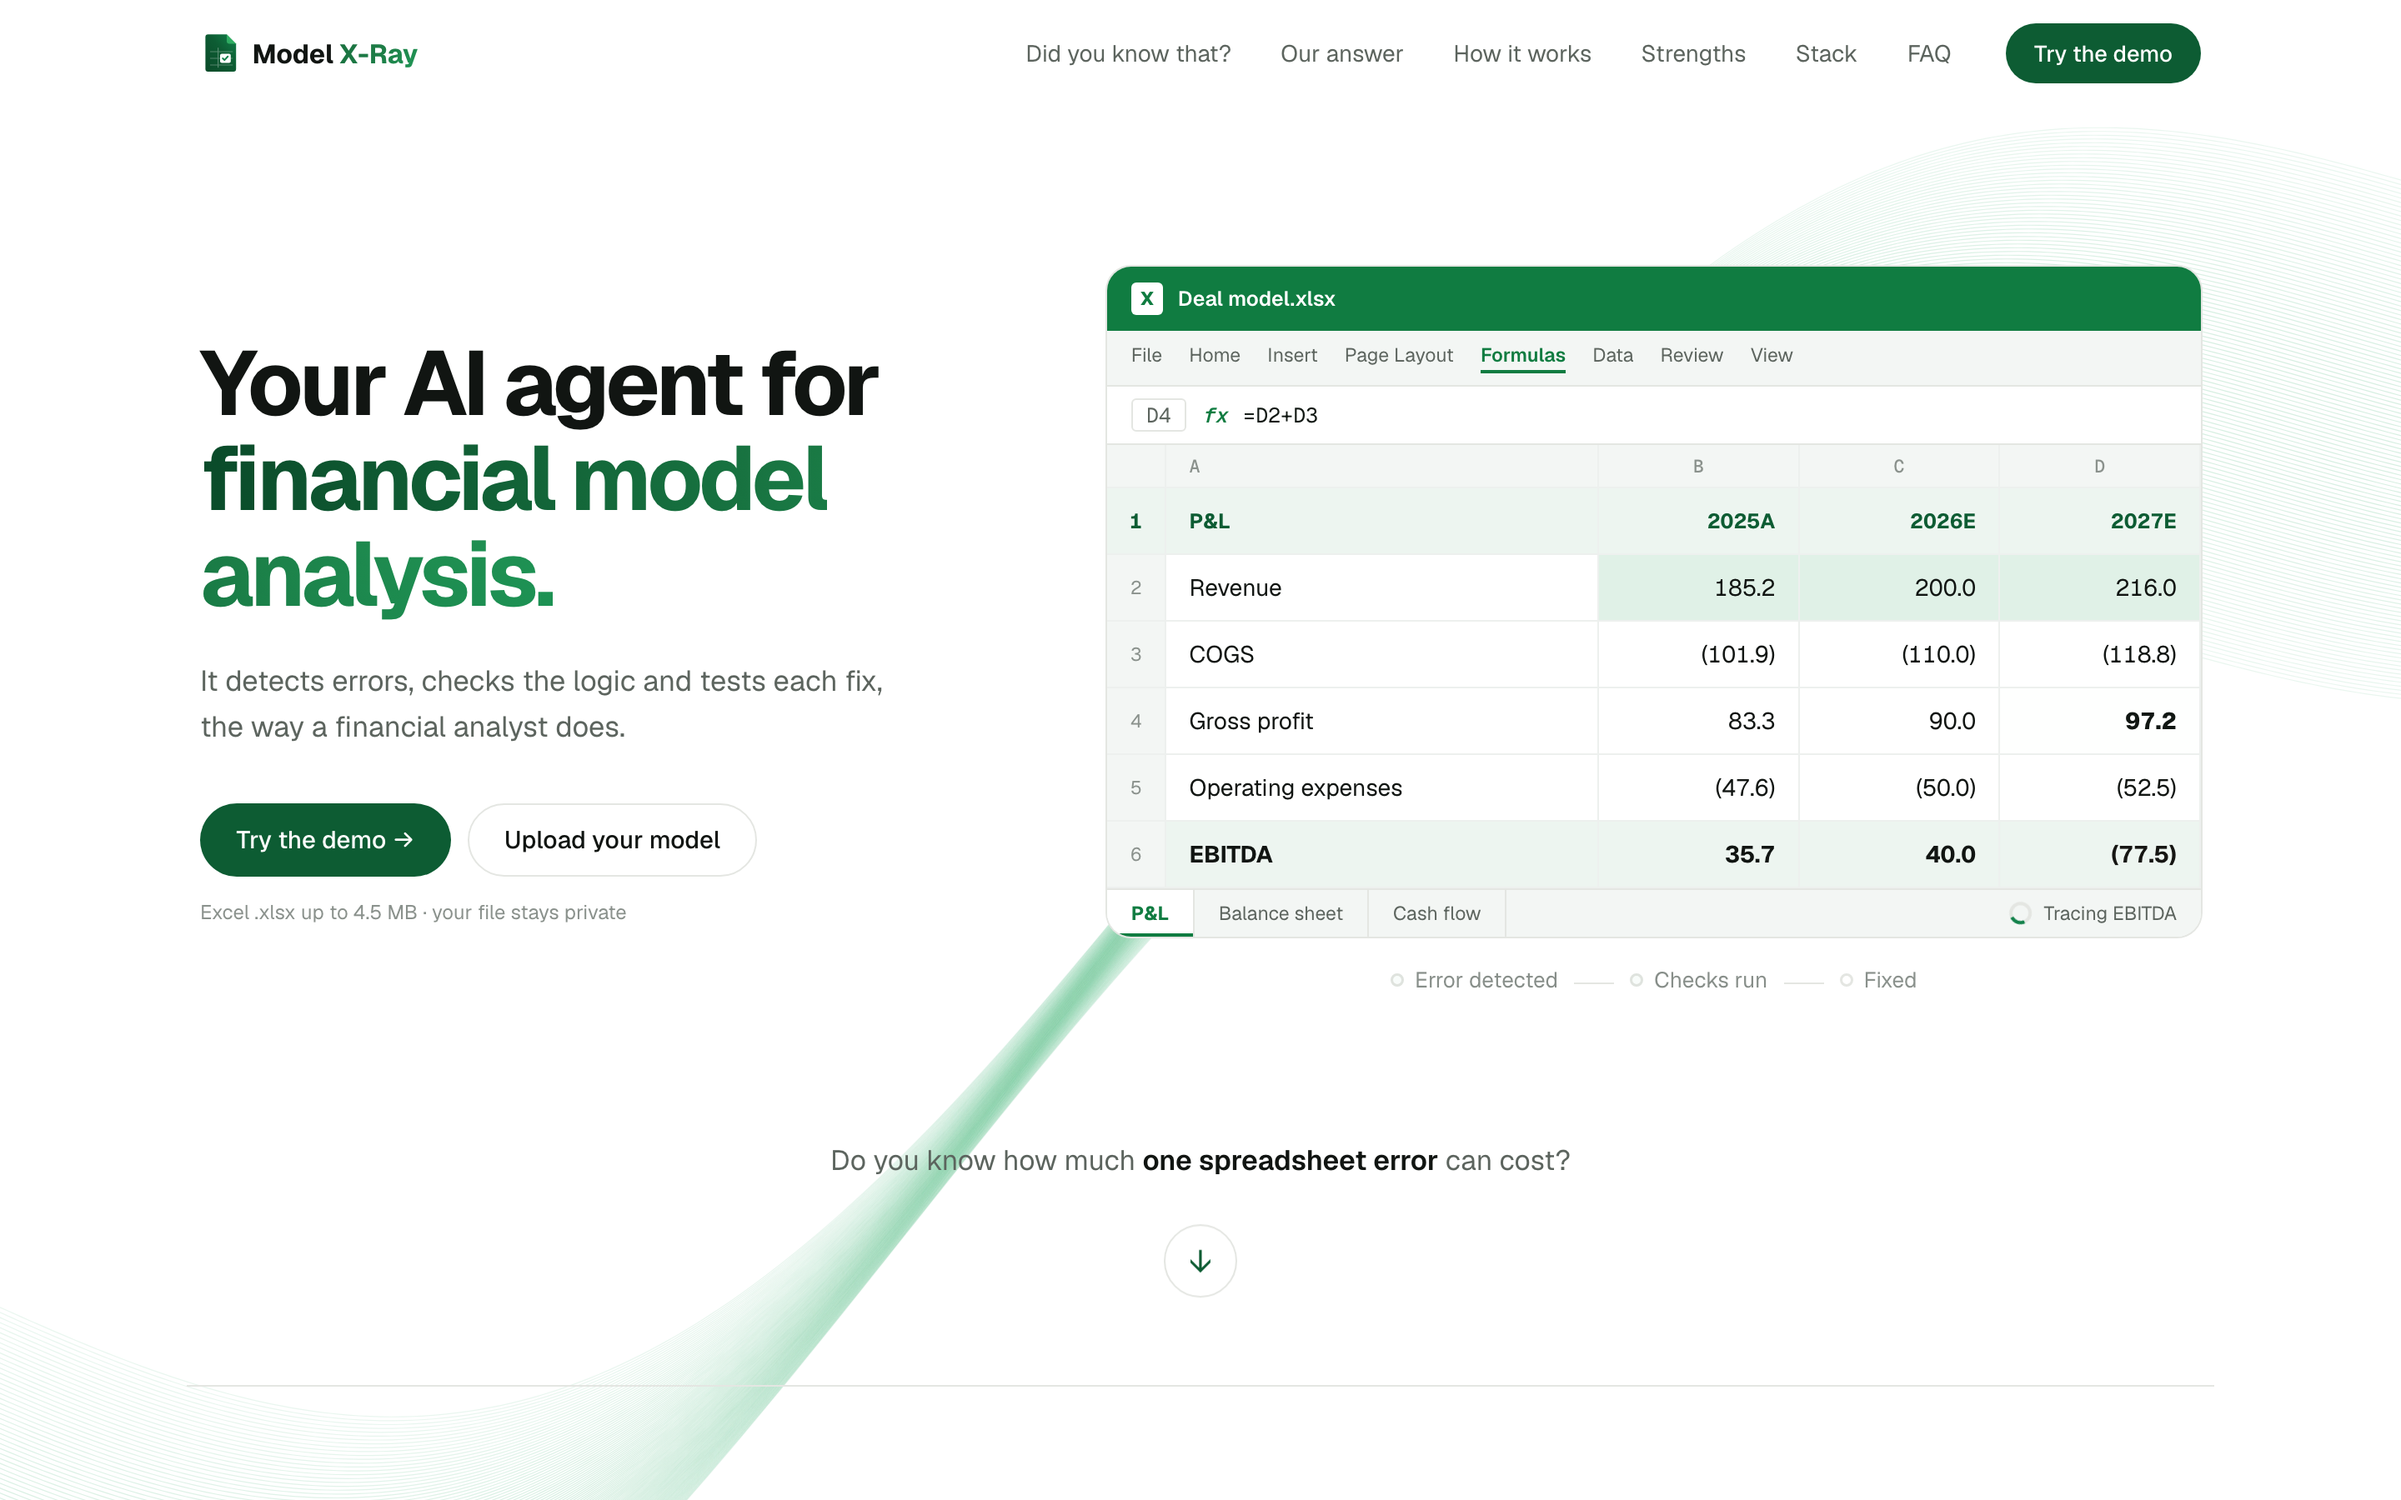
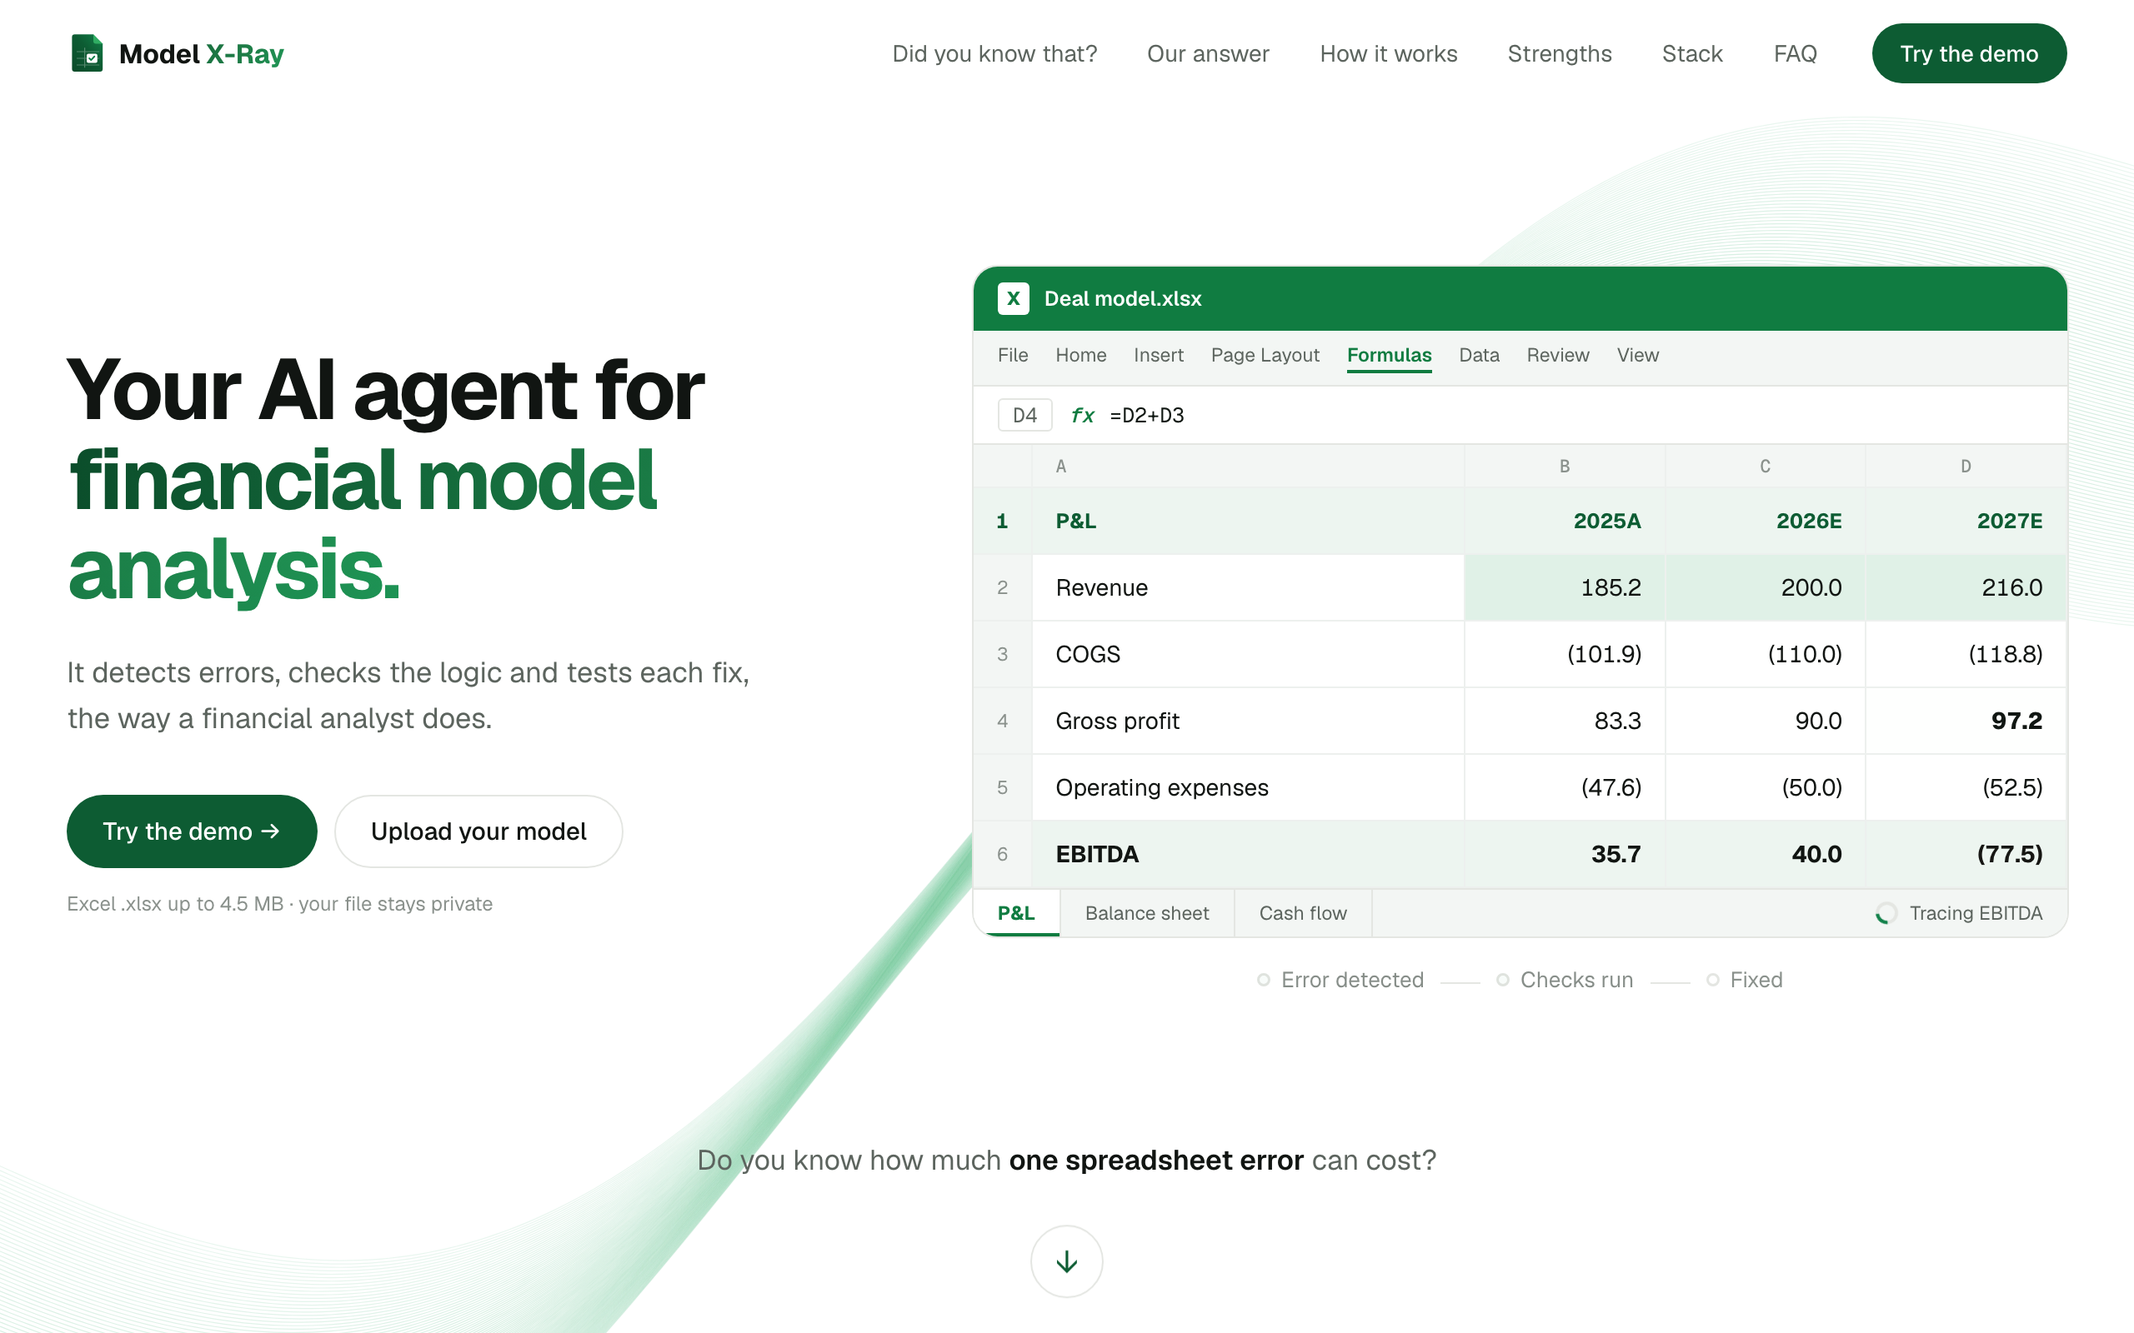
docs(readme): the human in the loop as the third point of the solution and the opening screen at the usual README width

diff --git a/README.md b/README.md
@@ -18,7 +18,7 @@ The debugger for financial models. An AI agent powered by NVIDIA Nemotron that h
 
 Open the [live demo](https://model-x-ray.vercel.app) and press **Try the demo** to watch the agent check a European power purchase agreement model with 2,400 formulas and three planted errors, or upload your own `.xlsx`.
 
-![The opening screen](docs/screenshot-start.png)
+<p align="center"><img src="docs/screenshot-start.png" alt="The opening screen" width="800"></p>
 
 ## The Problem
 
@@ -38,6 +38,7 @@ Model X-Ray checks your model the way an experienced financial analyst does. **N
 
 - **NVIDIA Nemotron** reads the model, judges every suspect cell, tells a real error from a deliberate choice, and argues against its own fix.
 - **A calculation engine** maps every formula and recalculates the whole workbook, so no number in the answer is guessed by AI.
+- **You, the human in the loop,** approve, edit or reject every fix before anything changes in your file, and can ask the agent about any error you are unsure of.
 
 Designed with M&A and deal teams, investment bankers, corporate finance and FP&A analysts in mind, it works for anyone who needs to trust the numbers in a spreadsheet.
 
